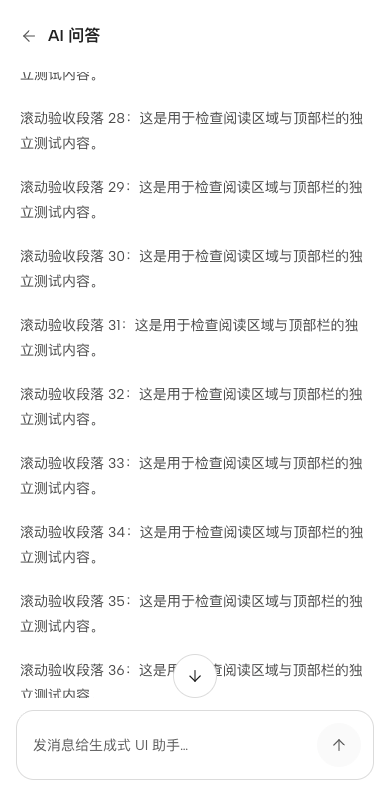
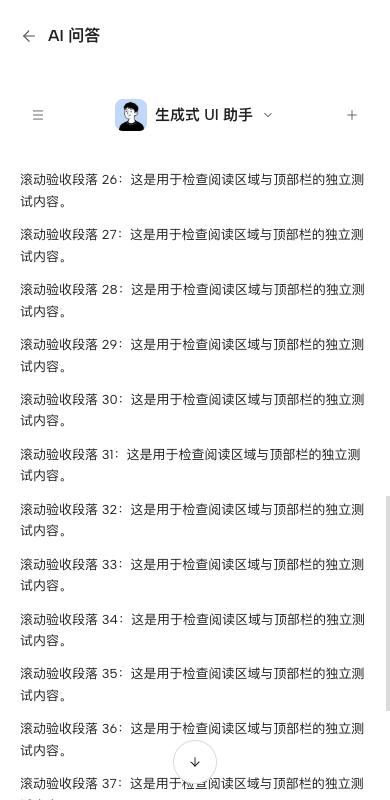
fix(ai-chat): 按最新消息位置切换输入栏动效 (#7)

diff --git a/apps/web/components/ai-chat.tsx b/apps/web/components/ai-chat.tsx
@@ -155,6 +155,7 @@ export function AiChat() {
     () =>
       observeMotionPolicy(() => {
         page.current?.toggleAttribute('data-motion-paused', document.hidden);
+        if (document.documentElement.dataset.input === 'keyboard') setHeaderHidden(false);
         if (instantMotion() || document.hidden) {
           creationEntry.current?.finish();
           creationExit.current?.finish();
@@ -577,7 +578,9 @@ function ConversationView({
     () => new Set(conversation.messages.map((message) => message.id)),
   );
   const [atBottom, setAtBottom] = useState(true);
+  const composerHidden = !atBottom;
   const scroll = useRef<HTMLDivElement>(null);
+  const composerArea = useRef<HTMLDivElement>(null);
   const scrollGesture = useRef({ top: 0, travel: 0, userUntil: 0 });
   useEffect(() => onHeaderHiddenChange(false), [onHeaderHiddenChange]);
   const textarea = useRef<HTMLTextAreaElement>(null);
@@ -588,8 +591,9 @@ function ConversationView({
   }, [busy]);
   useEffect(() => {
     onBusy(busy);
+    if (busy) onHeaderHiddenChange(false);
     return () => onBusy(false);
-  }, [busy, onBusy]);
+  }, [busy, onBusy, onHeaderHiddenChange]);
   useEffect(() => {
     onMessages(conversation.id, messages);
   }, [conversation.id, messages, onMessages]);
@@ -606,6 +610,24 @@ function ConversationView({
       scrollGesture.current.travel = 0;
     }
   }, [messages, status, atBottom]);
+
+  useEffect(() => {
+    const area = composerArea.current;
+    const viewport = scroll.current;
+    if (!area || !viewport) return;
+    const fit = () => {
+      area.parentElement?.style.setProperty('--composer-height', `${area.offsetHeight}px`);
+      if (atBottom) {
+        viewport.scrollTop = viewport.scrollHeight;
+        scrollGesture.current.top = viewport.scrollTop;
+        scrollGesture.current.travel = 0;
+      }
+    };
+    fit();
+    const observer = new ResizeObserver(fit);
+    observer.observe(area);
+    return () => observer.disconnect();
+  }, [atBottom]);
 
   const send = useCallback(
     (text: string) => {
@@ -645,7 +667,7 @@ function ConversationView({
           gesture.userUntil = performance.now() + 1200;
           gesture.travel =
             Math.sign(delta) === Math.sign(gesture.travel) ? gesture.travel + delta : delta;
-          if (top < 24) {
+          if (top < 24 || document.activeElement === textarea.current) {
             onHeaderHiddenChange(false);
             gesture.travel = 0;
           } else if (Math.abs(gesture.travel) >= 12) {
@@ -788,7 +810,11 @@ function ConversationView({
           )}
         </div>
       </div>
-      <div className={styles.composerArea}>
+      <div
+        ref={composerArea}
+        className={styles.composerArea}
+        data-hidden={composerHidden || undefined}
+      >
         {!atBottom && (
           <Button
             icon
@@ -802,49 +828,58 @@ function ConversationView({
             <ArrowDown size={20} strokeWidth={1.6} />
           </Button>
         )}
-        <form
-          className={styles.composer}
-          onSubmit={(event) => {
-            event.preventDefault();
-            send(input);
-          }}
+        <div
+          className={styles.composerPanel}
+          data-composer-panel=""
+          data-hidden={composerHidden || undefined}
+          inert={composerHidden}
+          aria-hidden={composerHidden || undefined}
+          onFocusCapture={() => onHeaderHiddenChange(false)}
         >
-          <textarea
-            ref={textarea}
-            value={input}
-            onChange={(event) => setInput(event.target.value)}
-            aria-label={`发消息给${agent.name}`}
-            placeholder={`发消息给${agent.name}…`}
-            rows={1}
-            maxLength={4000}
-            onKeyDown={(event) => {
-              if (
-                event.key === 'Enter' &&
-                !event.shiftKey &&
-                !event.nativeEvent.isComposing &&
-                !window.matchMedia('(pointer: coarse)').matches
-              ) {
-                event.preventDefault();
-                send(input);
-              }
+          <form
+            className={styles.composer}
+            onSubmit={(event) => {
+              event.preventDefault();
+              send(input);
             }}
-          />
-          {busy ? (
-            <Button icon variant="primary" aria-label="停止生成" onClick={() => void stop()}>
-              <Square size={16} fill="currentColor" />
-            </Button>
-          ) : (
-            <Button
-              type="submit"
-              icon
-              variant="primary"
-              aria-label="发送消息"
-              disabled={!input.trim()}
-            >
-              <ArrowUp size={20} strokeWidth={1.6} />
-            </Button>
-          )}
-        </form>
+          >
+            <textarea
+              ref={textarea}
+              value={input}
+              onChange={(event) => setInput(event.target.value)}
+              aria-label={`发消息给${agent.name}`}
+              placeholder={`发消息给${agent.name}…`}
+              rows={1}
+              maxLength={4000}
+              onKeyDown={(event) => {
+                if (
+                  event.key === 'Enter' &&
+                  !event.shiftKey &&
+                  !event.nativeEvent.isComposing &&
+                  !window.matchMedia('(pointer: coarse)').matches
+                ) {
+                  event.preventDefault();
+                  send(input);
+                }
+              }}
+            />
+            {busy ? (
+              <Button icon variant="primary" aria-label="停止生成" onClick={() => void stop()}>
+                <Square size={16} fill="currentColor" />
+              </Button>
+            ) : (
+              <Button
+                type="submit"
+                icon
+                variant="primary"
+                aria-label="发送消息"
+                disabled={!input.trim()}
+              >
+                <ArrowUp size={20} strokeWidth={1.6} />
+              </Button>
+            )}
+          </form>
+        </div>
       </div>
     </section>
   );

diff --git a/apps/web/components/ai-chat.module.css b/apps/web/components/ai-chat.module.css
@@ -14,9 +14,9 @@
 .agentButton[aria-expanded="true"] { background:var(--chat-selected); border-color:transparent; }
 .agentButton:disabled { opacity:.5; }
 .chatSurface { position:relative; display:flex; flex-direction:column; flex:1; min-height:0; }
-.thread { display:flex; flex-direction:column; flex:1; min-height:0; }
+.thread { position:relative; display:flex; flex-direction:column; flex:1; min-height:0; }
 .messages { scroll-padding-top:94px; min-height:0; flex:1; overflow:auto; overscroll-behavior:contain; scrollbar-width:thin; scrollbar-color:var(--color-hairline-strong) transparent; }
-.messageInner { width:100%; max-width:480px; margin:0 auto; padding:106px 20px 28px; display:flex; flex-direction:column; gap:20px; }
+.messageInner { width:100%; max-width:480px; margin:0 auto; padding:106px 20px calc(var(--composer-height,100px) + 28px); display:flex; flex-direction:column; gap:20px; }
 .userMessage { align-self:flex-end; max-width:91%; padding:10px 14px; border-radius:16px 16px 5px 16px; background:var(--chat-bubble); font-size:var(--chat-body-size); line-height:1.65; overflow-wrap:anywhere; }
 .userMessage p { margin:0; white-space:pre-wrap; }
 .assistantMessage { min-width:0; font-size:var(--chat-body-size); line-height:1.65; overflow-wrap:anywhere; color:var(--color-body); }
@@ -27,14 +27,17 @@
 .messageActions span { margin-left:8px; font-size:12px; }
 .muted,.progress { color:var(--color-ink-soft); }
 .progress { font-size:var(--chat-body-size); margin:0; }
-.composerArea { flex:none; position:relative; width:100%; max-width:480px; margin:0 auto; padding:12px 16px max(20px,env(safe-area-inset-bottom)); }
+.composerArea { position:absolute; inset:auto 0 0; width:100%; max-width:480px; margin:0 auto; z-index:2; pointer-events:none; }
+.composerPanel { padding:12px 16px max(20px,env(safe-area-inset-bottom)); background:var(--color-workspace); pointer-events:auto; transform:translateY(0); opacity:1; transition:transform 180ms var(--ease-out),opacity 180ms var(--ease-out); }
+.composerPanel[data-hidden] { transform:translateY(100%); opacity:0; pointer-events:none; }
 .composer { display:flex; align-items:flex-end; gap:8px; border:1px solid var(--color-hairline-strong); border-radius:16px; padding:6px 8px 6px 12px; background:var(--color-paper); transition:border-color 150ms ease; }
 .composer:focus-within { border-color:transparent; outline:2px solid var(--chat-focus); outline-offset:-1px; }
 .composer textarea { flex:1; min-width:0; border:0; background:none; outline:none; resize:none; font:inherit; font-size:var(--chat-input-size); line-height:26px; padding:9px 0; color:var(--color-ink); field-sizing:content; max-height:180px; caret-color:var(--chat-primary); }
 .composer textarea::placeholder,.agentForm input::placeholder,.agentForm textarea::placeholder,.question input::placeholder { color:var(--color-ink-soft); font-size:inherit; opacity:1; }
 .composer button { flex:none; background:var(--chat-selected); border-color:var(--chat-selected); color:var(--color-ink); }
 .composer button:disabled { opacity:1; background:var(--color-plate); border-color:var(--color-plate); color:var(--color-ink-soft); }
-.toBottom { position:absolute; left:calc(50% - 22px); top:-44px; background:var(--color-paper); }
+.toBottom { position:absolute; left:calc(50% - 22px); top:-44px; background:var(--color-paper); pointer-events:auto; transition:transform 180ms var(--ease-out); }
+.composerArea[data-hidden] .toBottom { transform:translateY(calc(var(--composer-height,100px) - max(16px,env(safe-area-inset-bottom)))); }
 .welcome { padding:8vh 0 24px; text-align:center; }
 .welcome h2 { margin:0 0 12px; font-size:var(--chat-heading-size); font-weight:500; line-height:1.4; text-wrap:balance; }
 .welcome > p { color:var(--color-ink-soft); font-size:var(--chat-body-size); margin:0 auto; max-width:300px; line-height:1.65; text-wrap:pretty; }
@@ -130,8 +133,8 @@
 @media(prefers-reduced-motion:reduce) { .waitDots i,.composer button svg { animation:none; } .agentPopover,.drawer,.drawer .navigation,.drawer::backdrop,.userMessage[data-arriving],.assistantMessage[data-arriving] { transition:none; } }
 
 .header[data-hidden] { transform:translateY(-100%); opacity:0; pointer-events:none; }
-:global(html[data-input="keyboard"]) .header { transition:none; }
-@media(prefers-reduced-motion:reduce) { .header { transition:none; } }
+:global(html[data-input="keyboard"]) .header,:global(html[data-input="keyboard"]) .composerPanel,:global(html[data-input="keyboard"]) .toBottom { transition:none; }
+@media(prefers-reduced-motion:reduce) { .header,.composerPanel,.toBottom { transition:none; } }
 
 .page { font-size:var(--chat-body-size); --control-icon-size:var(--chat-icon-size); }
 .page button svg { width:var(--chat-icon-size); height:var(--chat-icon-size); }

diff --git a/apps/web/.impeccable/surfaces/apps-web-components-ai-chat-tsx.md b/apps/web/.impeccable/surfaces/apps-web-components-ai-chat-tsx.md
@@ -17,7 +17,7 @@ OWN-WORLD: Project-neutral backgrounds and text, Albert Sans with Chinese system
 
 STORY: Open the centered header dropdown list to select or create an agent; open Menu for a full-height drawer confined to the mobile frame. The shared header now always shows “← AI 问答” outside the mobile demo, aligned with the other product pages. The drawer has a static conversation title, followed only by new-chat and history; no appearance controls or storage-location footer. Type in the bottom composer, then refine streamed answers through text and generated controls. Creation still requires only name and system prompt. Its editor is an absolutely positioned child of the mobile chat container (inset:0, no browser-level dialog/top layer), occupies only that frame, and temporarily hides the mounted chat: back and centered title at top, independently scrollable fields, one full-width submit button fixed at bottom. Entry must not summon the keyboard, name Enter moves to prompt, back/Escape retains the session draft, successful creation clears it, and mobile VisualViewport resizing keeps the footer visible.
 
-FIRST VIEWPORT: An actual mobile presentation: 480px maximum centered portrait frame on desktop, full-width on phones. The same 15px headings/13px body and mobile spacing apply at both window sizes. Shared product back-title belongs to the external site header, independently positioned on wide screens so the demo keeps its16px top inset; the mobile frame keeps Menu left, agent center, Plus right. Empty welcome and three quiet vertical business-case starters sit in the message area; clicking sends the request directly, and each touch-first choice contains a natural-language question plus one-line outcome; no arrow icon or keyboard shortcuts; the composer is at the bottom in BOTH empty and populated states. No suggestion chips beneath it. User messages align right, assistant content and generated groups left. Shell body/list13px at1.65, header/welcome/navigation15px on every device. Shell editable fields use13px/400 with13px placeholders; avatar32px and composer padding6px 8px 6px 12px. Generated answers follow [their scoped contract](ai-chat-answers.md): body13px, labels12px, captions12px, heading15px, metrics18px, inputs13px, placeholders13px and icons14px, inherited from the shell `.page --chat-*` scale, with unboxed groups,12px group spacing and full-width answer/portal/edit action grids. Single actions span a row; two short actions share equal columns only above320px content-container width, while narrower containers or three-plus actions stack full-width. Each group has at most one primary, with outlined secondary alternatives; text buttons use10px corners,13px text/20px line box,10px 12px padding and44px minimum height. Shell navigation, send and copy icons keep their existing shapes; all shell button icons inherit14px; all actual input values inherit body13px, including composer and creation forms. Empty and selected select text use13px in both focus states. OpenUI and creation fields use20px line boxes,8px 12px padding and44px minimum height; generated textareas start at80px. Existing group12px/Form16px spacing and chart geometry remain; browser-native zoom is not restricted.
+FIRST VIEWPORT: An actual mobile presentation: 480px maximum centered portrait frame on desktop, full-width on phones. The same 15px headings/13px body and mobile spacing apply at both window sizes. Shared product back-title belongs to the external site header, independently positioned on wide screens so the demo keeps its16px top inset; the mobile frame keeps Menu left, agent center, Plus right. Empty welcome and three quiet vertical business-case starters sit in the message area; clicking sends the request directly, and each touch-first choice contains a natural-language question plus one-line outcome; no arrow icon or keyboard shortcuts; the composer is docked at the bottom in empty and latest-message states, and hides while reading older messages. No suggestion chips beneath it. User messages align right, assistant content and generated groups left. Shell body/list13px at1.65, header/welcome/navigation15px on every device. Shell editable fields use13px/400 with13px placeholders; avatar32px and composer padding6px 8px 6px 12px. Generated answers follow [their scoped contract](ai-chat-answers.md): body13px, labels12px, captions12px, heading15px, metrics18px, inputs13px, placeholders13px and icons14px, inherited from the shell `.page --chat-*` scale, with unboxed groups,12px group spacing and full-width answer/portal/edit action grids. Single actions span a row; two short actions share equal columns only above320px content-container width, while narrower containers or three-plus actions stack full-width. Each group has at most one primary, with outlined secondary alternatives; text buttons use10px corners,13px text/20px line box,10px 12px padding and44px minimum height. Shell navigation, send and copy icons keep their existing shapes; all shell button icons inherit14px; all actual input values inherit body13px, including composer and creation forms. Empty and selected select text use13px in both focus states. OpenUI and creation fields use20px line boxes,8px 12px padding and44px minimum height; generated textareas start at80px. Existing group12px/Form16px spacing and chart geometry remain; browser-native zoom is not restricted.
 
 FORM: User-pinned mobile screenshot and explicitly preferred first-version layout; no concept seed. Motion now explains mobile navigation: dropdown unfolds from its trigger (180/140ms), navigation slides within a stationary clipped frame (220/180ms), creation pushes in from right and returns right (240/180ms). Creation keeps the underlying chat mounted/inert, retains exiting DOM until commit, and can reverse from its current transform. New messages enter once, never per streamed chunk; send/stop and active-generation dots give small feedback. Keyboard/reduced-motion/background settle instantly. Single continuous blue focus contour belongs to the whole composer; no inner textarea rectangle or doubled outline. Preserve keyboard, reduced-motion and modal focus recovery.
 
@@ -26,3 +26,5 @@ FINISH: unreviewed and undocumented is unfinished; this build ends with the fini
 No generated rasters. No disclaimer or replacement warning beneath the composer.
 
 CONSISTENCY: The shared size scope also reaches official body portals and chart tooltips. Creation labels use12px. Source inspection covers the82 official definitions; deterministic10-group replay and opened-overlay checks have separate evidence in docs/design/execution/ai-chat-consistency-audit.md. This is an AI-chat scope, not a site-wide audit.
+
+SCROLL CHROME: The header keeps its directional behavior. The composer is hidden only while away from the latest-message region (80px tolerance), regardless of scroll reversal; return to latest restores it. It slides down/fades over180ms, stays mounted/inert while hidden, and never changes message viewport height. The measured bottom inset follows multiline input. The independent centered latest-message button remains reachable; drafts persist, keyboard and reduced motion use immediate transitions.

diff --git a/docs/design/execution/ai-chat.md b/docs/design/execution/ai-chat.md
@@ -6,7 +6,7 @@
 
 桌面为居中480px的移动演示框，上下16px留白。外层「← AI 问答」与其他作品同样式，宽屏独立定位，不挤压演示框；不足800px预留72px页头防止重叠，639px以下取消框线。Menu、居中智能体、Plus 保留，创建页和会话抽屉都限定在演示框内。
 
-手机字号、触控尺寸、中性主题、Albert Sans、成对动效遵循 DESIGN.md。输入区常驻底部，“回到最新消息”按钮水平居中；向上滑动阅读时内层工具栏以180ms位移／淡出收起，反向滚动恢复，消息区高度不变。自动跟随回复不隐藏工具栏；键盘和减少动态效果即时切换。
+手机字号、触控尺寸、中性主题、Albert Sans、成对动效遵循 DESIGN.md。输入区在最新消息区域显示，离开底部即收起；“回到最新消息”按钮水平居中且独立可用；向上滑动阅读时内层工具栏以180ms位移／淡出收起，反向滚动恢复，消息区高度不变。自动跟随回复不隐藏工具栏；键盘和减少动态效果即时切换。
 
 生成期间显示等待状态，结束后显示复制与重新生成图标。复制渲染后的内容，不复制 OpenUI Lang。智能体仅有名称和系统提示词；头像从15张男生素材随机分配。会话、智能体、摘要及表单状态保存于当前浏览器 `personal-design:ai-chat:v1`，没有账号或跨设备同步。主题入口、保存位置说明、免责声明均不展示。
 
@@ -106,3 +106,7 @@ EGO_TASK_SPACE=<active> DESIGN_BASE_URL=http://localhost:<端口> sh scripts/des
 此前实际输入字号回归（占位仍12px时）：`EGO_TASK_SPACE=<active> DESIGN_BASE_URL=http://localhost:<端口> sh scripts/design-checks/ai-chat-input-values.sh` 在320浅色／390深色／1440浅色验证18个填写态控件，实际值与focus均13px、空select始终12px，原生日期子字段13px；并通过真实键入、刷新持久化、composer与创建表单13px、Modal内值13／占位12检查。结果见 `evidence/ai-chat-input-values/result.json`，截图保存同目录；该次不改组件密度，浏览器模拟视口不等于iOS真机键盘验收。
 
 此前控件比例复验（满宽按钮修订前）：上述输入脚本已按实际值／占位均13px更新并通过三视口各18个控件、聚焦、真实键入、刷新保存、创建表单与portal检查；`ai-chat-visual.sh` 通过320／390／817／1440px、明暗图表及13px输入／按钮检查，`ai-chat-catalog.sh` 全部10组回放和 `ai-chat-mobile.sh` 原生控件／编辑交互重跑通过。输入和选择保持44px操作区，标签／辅助说明保留12px，未恢复之前被撤回的整体压缩。
+
+底部阅读动效：输入面板按最新消息位置控制，离开底部阈值80px即以180ms向下淡出；中途无论滚动方向如何都保持隐藏，滚回最新消息或点击回到最新才显示。面板绝对定位，ResizeObserver同步消息末尾留白，隐藏不改变视口高度。回到最新按钮独立可用，草稿不卸载，隐藏时inert/aria-hidden，键盘和减少动态效果即时完成。顶部栏保留既有方向判断；两者只共享动效风格，不共享显示条件。`ai-chat-scroll.sh`验证位置条件、动画中间帧、草稿、视口、键盘返回和多行留白。
+
+本次定向验收通过1440px／390px：离开最新位置隐藏、中途正反滚动不恢复、点击或滚回最新恢复、草稿保留、多行留白及键盘／减少动态效果。`evidence/ai-chat-scroll/*-motion.json`记录进入和退出中的实际opacity/transform帧，视口高度保持不变；结果见同目录 `result.json`。

diff --git a/docs/design/README.md b/docs/design/README.md
@@ -81,7 +81,7 @@
 
 ### AI 问答 `/products/ai-chat`
 
-- 第六个作品。所有视口优先沿截图及首版移动视觉与交互，桌面居中480px竖向窄框，手机填满共享页头下方；统一15px页头、欢迎标题与13px消息／列表；按钮13px、标签12px，全部实际输入值、占位与空／已选下拉统一13px：智能体选择器居中，保留左侧 Menu 会话记录与右侧 Plus 新对话。欢迎语与三个大触控问题选项位于消息区，选项包含自然语言问题与一句结果说明，点击直接发送，不显示向上箭头或快捷键；空态和有消息时输入区均常驻底部。
+- 第六个作品。所有视口优先沿截图及首版移动视觉与交互，桌面居中480px竖向窄框，手机填满共享页头下方；统一15px页头、欢迎标题与13px消息／列表；按钮13px、标签12px，全部实际输入值、占位与空／已选下拉统一13px：智能体选择器居中，保留左侧 Menu 会话记录与右侧 Plus 新对话。欢迎语与三个大触控问题选项位于消息区，选项包含自然语言问题与一句结果说明，点击直接发送，不显示向上箭头或快捷键；空态和有消息时输入区默认停靠底部，离开最新消息区域时隐藏，回到最新消息时恢复。
 - 标题回退导航置于手机展示框外，复用其他作品的共享页头样式；宽屏标题独立定位，手机框保持顶部16px，不受外层标题挤压；不足800px时为页头预留72px避免导航重叠，不产生页面级纵向溢出。问答页继续隐藏主题入口，其他作品不变。
 - 页面与表面遵循全站中性双主题、Albert Sans 和中文零字距；所有图标为中性色，浅蓝只用于局部消息角色、选中和焦点等状态。输入区聚焦只显示连续外轮廓，不出现 textarea 内框；移除“回答可能有误，请核实重要信息”，不添加替代免责声明。视觉数值与局部圆角例外见根 DESIGN.md。
 - 智能体选择器打开页头下方居中的原生 auto popover 下拉列表，点击外部或 Esc 可收起；创建智能体进入覆盖同一移动界面的全高表单页，顶部返回、标题居中，仅有名称与系统提示词，底部常驻全宽创建按钮。Menu 打开贴齐聊天框左侧的全高导航抽屉：框外共享页头始终显示“← AI 问答”，抽屉顶部为“对话”标题，右侧关闭；新对话与历史记录占据导航内容区，不展示外观入口或保存位置说明。
